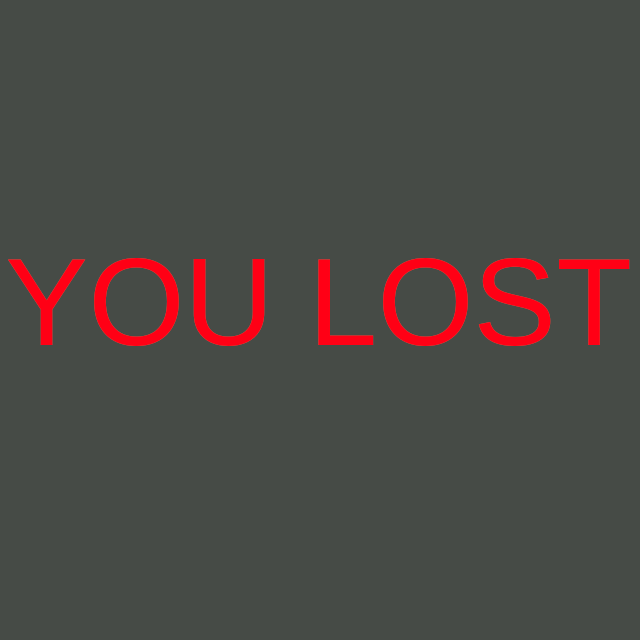
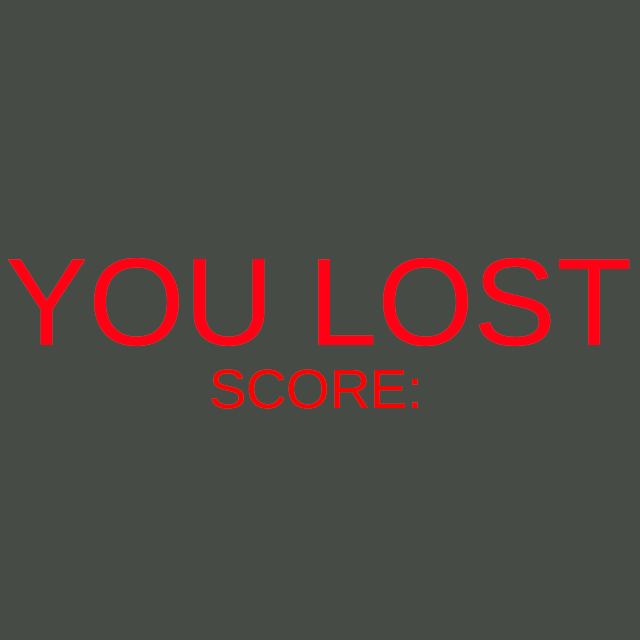
Add snake score counting

Changed region(s): [[0.3125, 0.5625, 0.6562, 0.6562]]

diff --git a/ayaya_native/main/src/apps/snake.rs b/ayaya_native/main/src/apps/snake.rs
@@ -306,7 +306,16 @@ impl SnakeGame {
     fn draw_lose_screen(&mut self) -> anyhow::Result<VideoCanvas> {
         if self.death_timer == 0 {
             self.game_state = SnakeGameState::Lose;
-            Ok(VideoCanvas::new_from_image(&SNAKE_LOSE_SCREEN))
+            let mut canvas = VideoCanvas::new_from_image(&SNAKE_LOSE_SCREEN);
+            canvas.draw_default_text(
+                439,
+                352,
+                56,
+                23,
+                &Color::new(255, 0, 0),
+                &self.snake.len().to_string(),
+            )?;
+            Ok(canvas)
         } else {
             let mut canvas = VideoCanvas::new(
                 self.width() as usize,
